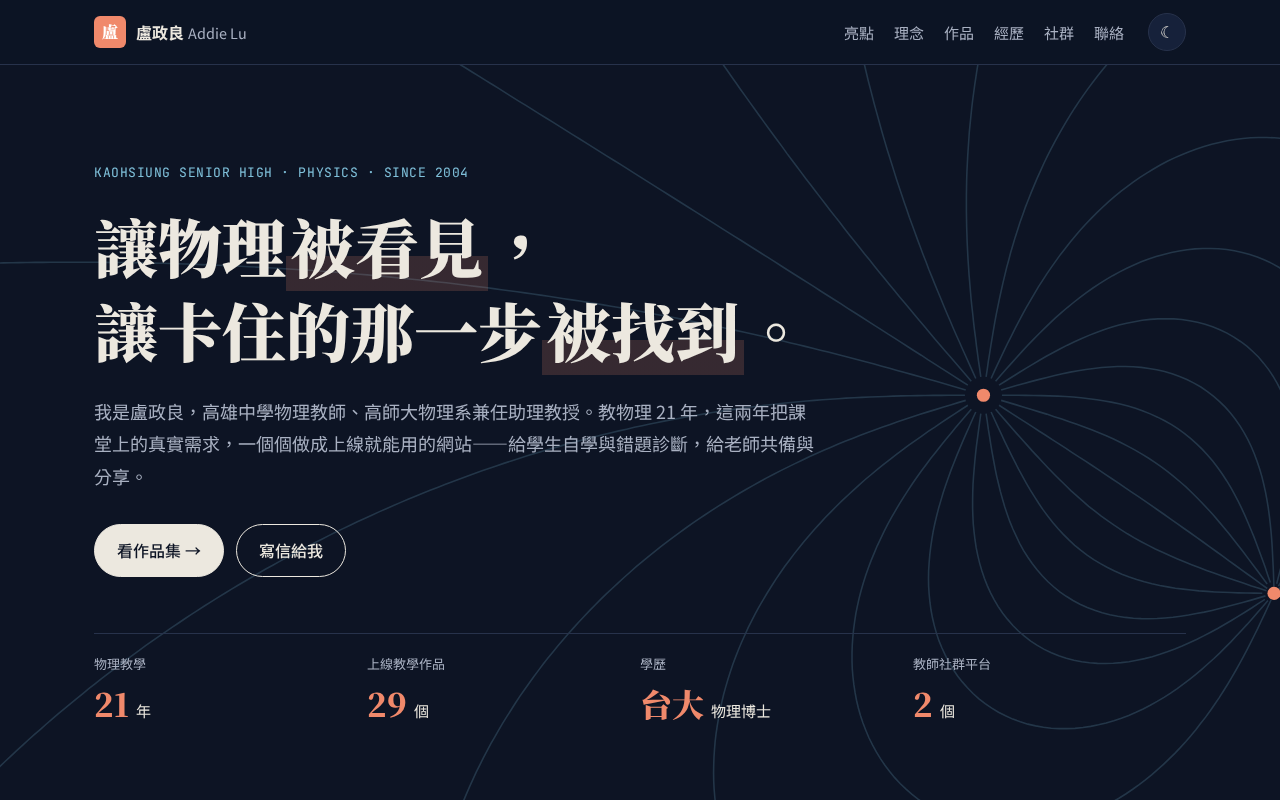
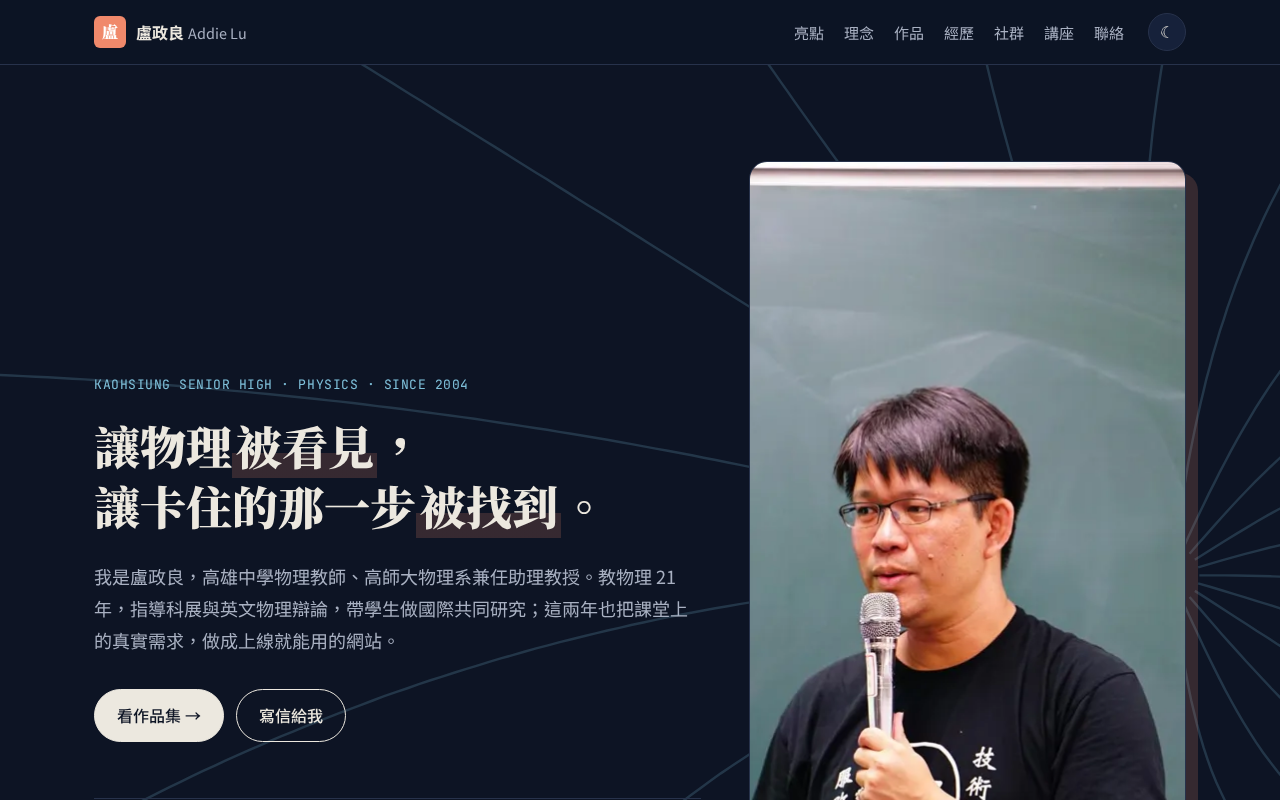
Add Drive-sourced highlights, talks, photos

diff --git a/index.html b/index.html
@@ -8,34 +8,41 @@
 <a class="skip" href="#main">跳到主要內容</a>
 <header class="nav"><div class="wrap nav-in">
 <a class="brand" href="#top"><span class="seal">盧</span><span>盧政良 <em>Addie Lu</em></span></a>
-<nav aria-label="主要導覽"><a href="#highlights">亮點</a><a href="#values">理念</a><a href="#works">作品</a><a href="#path">經歷</a><a href="#community">社群</a><a href="#contact">聯絡</a></nav>
+<nav aria-label="主要導覽"><a href="#highlights">亮點</a><a href="#values">理念</a><a href="#works">作品</a><a href="#path">經歷</a><a href="#community">社群</a><a href="#talks">講座</a><a href="#contact">聯絡</a></nav>
 <button id="theme" class="icon-btn" aria-label="切換深淺色主題"><span class="sun">☀</span><span class="moon">☾</span></button>
 </div></header>
 <main id="main">
 <section class="hero" id="top">
 <svg class="field" viewBox="0 0 1200 560" preserveAspectRatio="xMidYMid slice" aria-hidden="true"><g id="lines"></g></svg>
-<div class="wrap hero-in">
+<div class="wrap hero-in"><div class="hero-text">
 <p class="kicker mono">KAOHSIUNG SENIOR HIGH · PHYSICS · SINCE 2004</p>
-<h1>讓物理<span class="hl">被看見</span>，<br>讓卡住的那一步<span class="hl">被找到</span>。</h1>
-<p class="lede">我是盧政良，高雄中學物理教師、高師大物理系兼任助理教授。教物理 21 年，這兩年把課堂上的真實需求，一個個做成上線就能用的網站——給學生自學與錯題診斷，給老師共備與分享。</p>
+<h1>讓物理<span class="hl">被看見</span>，<br><span class="nw">讓卡住的那一步<span class="hl">被找到</span>。</span></h1>
+<p class="lede">我是盧政良，高雄中學物理教師、高師大物理系兼任助理教授。教物理 21 年，指導科展與英文物理辯論，帶學生做國際共同研究；這兩年也把課堂上的真實需求，做成上線就能用的網站。</p>
 <div class="cta"><a class="btn primary" href="#works">看作品集 →</a><a class="btn" href="mailto:addielu@mail.kshs.kh.edu.tw">寫信給我</a></div>
 <dl class="stats">
 <div><dt>物理教學</dt><dd><b>21</b> 年</dd></div>
 <div><dt>上線教學作品</dt><dd><b id="count">29</b> 個</dd></div>
-<div><dt>學歷</dt><dd><b>台大</b> 物理博士</dd></div>
-<div><dt>教師社群平台</dt><dd><b>2</b> 個</dd></div>
-</dl></div></section>
-
-<section id="highlights" class="wrap sec"><header class="sh"><span class="mono num">01</span><h2>亮點</h2><p>四條主線，彼此串連。</p></header>
-<div class="grid4">
-<article class="card hl-card"><span class="glyph" aria-hidden="true">∂</span><h3>錯題診斷與自學評量</h3><p>自動評分只是起點；重點是錯題分析與對症練習。從國中理化到高中物理、後醫考古題，都做成可重複練習的網站。</p></article>
-<article class="card hl-card"><span class="glyph" aria-hidden="true">λ</span><h3>探究與實作</h3><p>從巴西堅果效應、水滴透鏡到手機感測器實驗室，讓學生用手邊的東西走完一次完整的探究歷程。</p></article>
-<article class="card hl-card"><span class="glyph" aria-hidden="true">Σ</span><h3>IYPT・物理辯論</h3><p>培訓 IYPT（國際青年物理學家辯論錦標賽）國手、協辦物理辯論賽，並做 TYPT 校隊選拔與 IYPT 題目模擬工具。</p></article>
-<article class="card hl-card"><span class="glyph" aria-hidden="true">∇</span><h3>AI 走進教學現場</h3><p>用 AI 工具把教學需求快速做成產品，並透過 PhAI 資源館與更多老師分享工作流。</p></article>
+<div><dt>指導全國科展</dt><dd><b>第一名</b> 2015・2025</dd></div>
+<div><dt>研習講座（2023–）</dt><dd><b>60+</b> 場</dd></div>
+</dl></div>
+<figure class="hero-photo"><img src="img/portrait.webp" width="1400" height="934" alt="盧政良老師手持麥克風在黑板前演講" fetchpriority="high"><figcaption class="mono">2024 · 研習分享</figcaption></figure>
 </div></section>
 
+<section id="highlights" class="wrap sec"><header class="sh"><span class="mono num">01</span><h2>亮點</h2><p>六條主線，彼此串連。</p></header>
+<div class="grid3 hl-grid">
+<article class="card hl-card"><span class="glyph" aria-hidden="true">∂</span><h3>科展指導</h3><p>連續多年指導學生參加高雄市與全國科展高中組物理科：104 年第 55 屆、114 年第 65 屆全國科展物理科<b>第一名</b>，另有第二、三名與佳作；高雄市科展物理科第一名多次。</p></article>
+<article class="card hl-card"><span class="glyph" aria-hidden="true">Σ</span><h3>英文物理辯論 TYPT・IYPT</h3><p>2011 年起培訓雄中 TYPT 隊伍，2024 年獲<b>二金、總冠軍</b>，歷年多名學生入選國手。並協辦物理辯論賽，建立校隊甄選與計時工具。</p></article>
+<article class="card hl-card"><span class="glyph" aria-hidden="true">⊕</span><h3>國際共同研究 ICRP</h3><p>參與日本立命館高校主辦的 International Collaborative Research Project，帶雄中學生與熊本北高校等海外夥伴進行跨國研究；並帶隊參加臺灣國際科展。</p></article>
+<article class="card hl-card"><span class="glyph" aria-hidden="true">△</span><h3>探空氣球立方衛星</h3><p>2026 年帶領雄中團隊加入「南方五校－成大太空課程實作計畫」，讓高中生走一次 MDR→FRR 的太空任務流程，2027 年 1 月放球。</p></article>
+<article class="card hl-card"><span class="glyph" aria-hidden="true">∇</span><h3>AI 走進教學現場</h3><p>2023 年起在各校與研討會分享 AI 輔助探究、批改與評量；2025 年於 KSASF 國際科學營分享 AI‑Assisted Physics Instructional Design。用 AI 把教學需求做成網站。</p></article>
+<article class="card hl-card"><span class="glyph" aria-hidden="true">▶</span><h3>教育影片製作</h3><p>製作 AI 教育與物理解題短影音：AI 進教室的教師須知、學生資料倫理、分科測驗物理詳解。<span class="tbc">【待確認：頻道名稱與連結】</span></p></article>
+</div>
+<figure class="wide-photo"><img src="img/workshop-pgsh.webp" width="1100" height="825" loading="lazy" alt="屏東女中「國際科學素養融入課程設計」研習現場"><figcaption>2025.4 屏東女中「國際科學素養融入課程設計」研習</figcaption></figure>
+</section>
+
 <section id="values" class="band"><div class="wrap sec"><header class="sh"><span class="mono num">02</span><h2>教育理念</h2></header>
-<blockquote class="big">「診斷比正解重要。」<cite>學生需要的不是再看一次標準解法，而是有人指出他真正卡住的那一步。</cite></blockquote>
+<blockquote class="big">「AI 進教室，不是取代老師，而是讓老師把時間拿回來。」<cite>但每一步都要守住學生尊嚴與學習品質。</cite></blockquote>
+<blockquote class="big small">「診斷比正解重要。」<cite>學生需要的不是再看一次標準解法，而是有人指出他真正卡住的那一步。</cite></blockquote>
 <div class="grid3 values">
 <div><h3><span class="mono">i.</span> 從真實需求出發</h3><p>段考複習、錯題診斷、探究課程——每個作品都來自課堂上真的發生的問題。</p></div>
 <div><h3><span class="mono">ii.</span> 做出來，就要能用</h3><p>上線即可使用、免安裝；學生打開就能練，老師拿去就能教。</p></div>
@@ -47,20 +54,42 @@
 <div class="works" id="grid"></div></section>
 
 <section id="path" class="band"><div class="wrap sec"><header class="sh"><span class="mono num">04</span><h2>經歷與角色</h2></header>
-<ol class="timeline">
-<li><span class="mono t">2004–</span><div><h3>高雄中學物理教師</h3><p>在講台上教了 21 年物理；也開放教室做示範教學。</p></div></li>
-<li><span class="mono t">學歷</span><div><h3>國立臺灣大學 物理博士</h3><p>【待確認：畢業年份與研究領域】</p></div></li>
-<li><span class="mono t">現職</span><div><h3>國立高雄師範大學物理學系 兼任助理教授</h3></div></li>
-<li><span class="mono t">現職</span><div><h3>《物理教育學刊》副主編・探究與實作學會理事</h3></div></li>
-<li><span class="mono t">競賽</span><div><h3>IYPT 國手培訓・物理辯論賽協辦</h3></div></li>
-</ol></div></section>
+<div class="path-grid"><ol class="timeline">
+<li><span class="mono t">2004–</span><div><h3>高雄中學物理教師</h3><p>教物理 21 年；開放教室做示範教學，帶多元選修「科學實作專題與國際科學交流」。</p></div></li>
+<li><span class="mono t">現職</span><div><h3>國立高雄師範大學物理系 兼任助理教授</h3><p>與高師大合開「科學思維」課程，參與師資培育。</p></div></li>
+<li><span class="mono t">2015</span><div><h3>國立臺灣大學 物理學博士</h3><p>研究領域：原子物理、相對論性量子力學。碩士亦於臺大物理所。</p></div></li>
+<li><span class="mono t">學歷</span><div><h3>高雄師範大學物理系畢業・中央大學資工第二專長</h3></div></li>
+<li><span class="mono t">學會</span><div><h3>《物理教育學刊》副主編</h3><p>探究與實作學會秘書長、中華民國物理教育學會常務理事 <span class="tbc">【待確認：目前職稱】</span></p></div></li>
+<li><span class="mono t">推動</span><div><h3>國教署南區探究與實作推動中心 研究教師</h3><p>高雄市高中輔導團兼任輔導員；高雄市跨校自然共備基地班召集人；BBC 知識專欄作家。</p></div></li>
+</ol>
+<figure class="side-photo"><img src="img/forum-fcu.webp" width="675" height="900" loading="lazy" alt="2025 動手做物理教學研討會大會論壇與談"><figcaption>2025.3 逢甲大學・動手做物理教學研討會大會論壇</figcaption></figure></div></div></section>
 
 <section id="community" class="wrap sec"><header class="sh"><span class="mono num">05</span><h2>社群與共備</h2></header>
 <div class="grid2">
 <a class="card comm" href="https://addielu-phy.github.io/phai-platform/"><span class="mono tag">AI × PHYSICS</span><h3>PhAI 資源館</h3><p>AI × 物理教學共備平台：社群老師的 AI 教學案例、互動模擬、探究命題與教師工作流，可搜尋、篩選、投稿。</p><span class="go">前往 →</span></a>
 <a class="card comm" href="https://addielu-phy.github.io/kh-inquiry-community-site/"><span class="mono tag">INQUIRY & PRACTICE</span><h3>高雄市探究與實作社群</h3><p>跨校教師共備社群：活動訊息、共備成果與社群資源的入口。</p><span class="go">前往 →</span></a>
 </div>
-<p class="note">研習講座邀約紀錄：【待確認】</p></section>
+<p class="note">高雄探究共備：定期舉辦跨校共備聚會（如 2026.6.26 場次），並以回饋表單持續調整。</p></section>
+
+<section id="talks" class="band"><div class="wrap sec"><header class="sh"><span class="mono num">06</span><h2>研習與講座</h2><p>2023 年以來受邀分享 60 餘場，以下為部分場次。</p></header>
+<div class="talks-grid"><ul class="talks">
+<li><time class="mono">2026.10</time>臺中女中・AI 物理自然教學研習</li>
+<li><time class="mono">2026.08</time>探究與實作初階工作坊</li>
+<li><time class="mono">2026.02</time>科工館冬令營・掌握科學探究實作的秘訣</li>
+<li><time class="mono">2026.01</time>物理年會論壇</li>
+<li><time class="mono">2025.12</time>全國教師會・南二中場</li>
+<li><time class="mono">2025.09</time>高雄市科展輔導研習・科展指導經驗分享</li>
+<li><time class="mono">2025.07</time>KSASF・AI‑Assisted Physics Instructional Design</li>
+<li><time class="mono">2025.05</time>臺北市數位實驗高中・物理科學探究的 AI 新視野</li>
+<li><time class="mono">2025.03</time>逢甲大學・動手做物理教學研討會大會論壇</li>
+<li><time class="mono">2025.01</time>物理年會教育論壇・中山大學</li>
+<li><time class="mono">2024.12</time>聯發科 AI DAY</li>
+<li><time class="mono">2024.11</time>成大師培・AI 探究與實作</li>
+<li><time class="mono">2024.08</time>物理教育年會大會演講</li>
+<li><time class="mono">2023.09</time>南一中・AI 研習</li>
+</ul>
+<figure class="side-photo"><img src="img/talk-fengshan.webp" width="1100" height="825" loading="lazy" alt="鳳山高中「科學探究的 AI 新視野」演講"><figcaption>2025.5 鳳山高中「科學探究的 AI 新視野」</figcaption></figure></div>
+</div></section>
 
 <section id="contact" class="contact"><div class="wrap sec">
 <h2>一起把物理課變得更好</h2><p>教學合作、研習邀約、社群共備，或想聊 AI 怎麼用進課堂，都歡迎來信。</p>

diff --git a/style.css b/style.css
@@ -59,3 +59,19 @@ h1{font-size:clamp(34px,5.6vw,64px);font-weight:900;max-width:15em}
 @media(max-width:900px){.grid4{grid-template-columns:1fr 1fr}.works{grid-template-columns:1fr 1fr}.grid3{grid-template-columns:1fr}}
 @media(max-width:640px){nav{display:none}.brand{margin-right:auto}.grid4,.grid2,.works{grid-template-columns:1fr}.stats{grid-template-columns:1fr 1fr}.hero-in{padding:64px 20px 48px}.sec{padding:64px 20px}.timeline li{grid-template-columns:1fr;gap:2px}.lede{font-size:16px}h1{font-size:30px}.kicker{font-size:11px}}
 @media(prefers-reduced-motion:reduce){*{transition:none!important;scroll-behavior:auto!important}}
+.hero-in{display:grid;grid-template-columns:1.25fr .9fr;gap:48px;align-items:center}
+.hero-photo{margin:0;position:relative}.hero-photo img{width:100%;aspect-ratio:4/5;object-fit:cover;object-position:52% 40%;border-radius:18px;border:1px solid var(--line);box-shadow:12px 12px 0 var(--hl)}
+figure figcaption{font-size:13px;color:var(--ink2);margin-top:10px}
+.hl-grid{gap:18px}.hl-card b{color:var(--acc);font-weight:700}
+.tbc{display:inline-block;background:#FFF1B8;color:#5A4600;font-size:12px;padding:0 6px;border-radius:4px}
+.wide-photo{margin:28px 0 0}.wide-photo img{width:100%;height:340px;object-fit:cover;border-radius:14px;border:1px solid var(--line)}
+.big.small{font-size:clamp(22px,3vw,32px);margin-bottom:40px}
+.path-grid,.talks-grid{display:grid;grid-template-columns:1.5fr 1fr;gap:48px;align-items:start}
+.side-photo{margin:0}.side-photo img{width:100%;border-radius:14px;border:1px solid var(--line);object-fit:cover}
+.talks{list-style:none;margin:0;padding:0;columns:1}.talks li{display:grid;grid-template-columns:80px 1fr;padding:10px 0;border-bottom:1px dashed var(--line)}.talks time{color:var(--acc);font-size:14px;padding-top:2px}
+@media(max-width:900px){.hero-in,.path-grid,.talks-grid{grid-template-columns:1fr}.hero-photo img{aspect-ratio:3/2}.grid3.hl-grid{grid-template-columns:1fr 1fr}}
+@media(max-width:640px){.grid3.hl-grid{grid-template-columns:1fr}.wide-photo img{height:220px}.talks li{grid-template-columns:70px 1fr}}
+.hero h1{font-size:clamp(30px,4.2vw,54px)}
+.side-photo img{max-height:460px;aspect-ratio:4/3}
+@media(max-width:640px){.hero h1{font-size:30px}}
+.nw{white-space:nowrap}.hero h1{font-size:clamp(28px,3.8vw,46px)}@media(max-width:640px){.hero h1{font-size:clamp(24px,7.6vw,30px)}}
